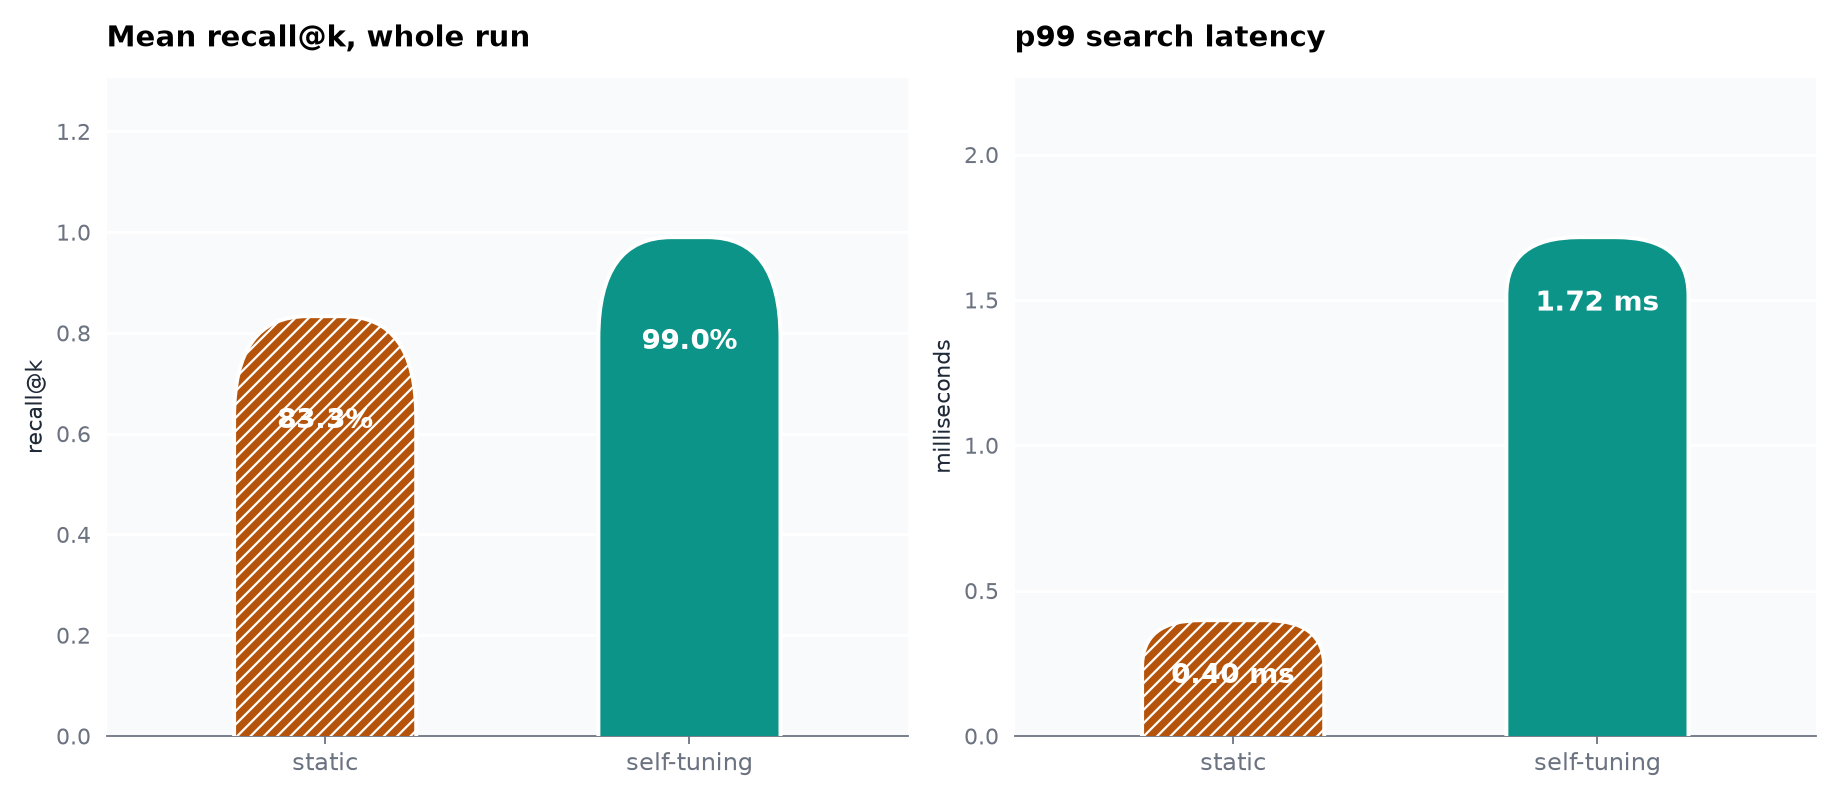
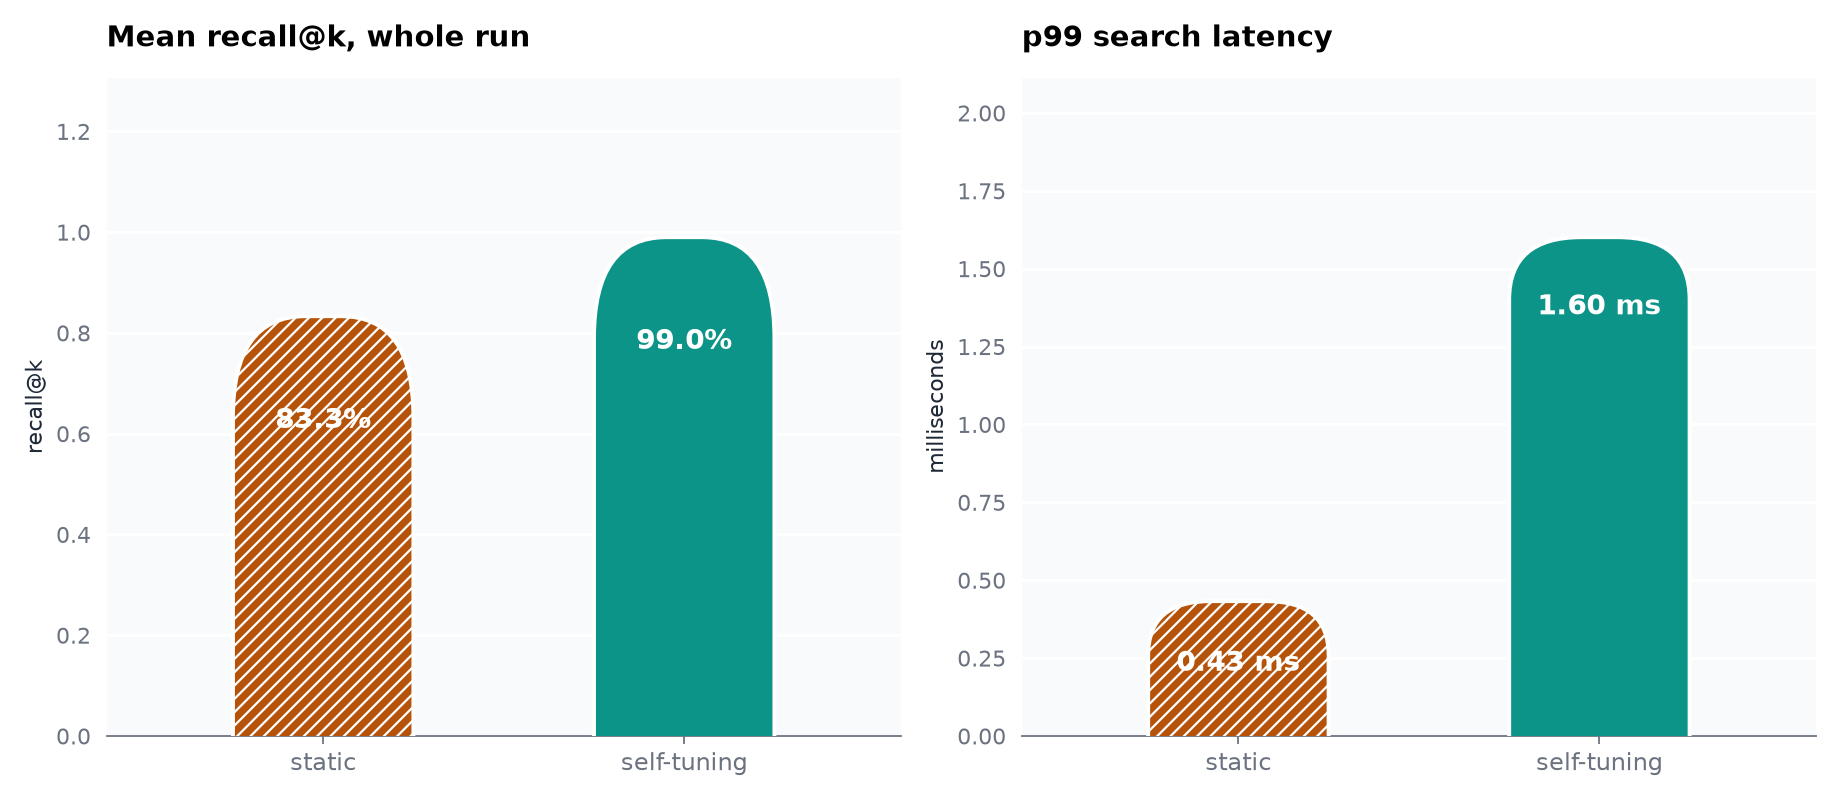
style: present the promotion and degree-widening charts as a dot plot and a node diagram

diff --git a/src/adaptann/viz.py b/src/adaptann/viz.py
@@ -10,6 +10,8 @@ silhouette from a conventional flat-topped column chart.
 
 from __future__ import annotations
 
+from pathlib import Path
+
 _STATIC = "#b45309"
 _STATIC_DARK = "#7c2d12"
 _ADAPTIVE = "#0d9488"
@@ -216,118 +218,108 @@ def plot_cold_start_recovery(
 
 
 def plot_promotion_vs_densify(static: tuple[float, float], promoted: tuple[float, float], path) -> None:
-    """The chart behind the redesign story: mean distance computations per
-    query, split into upper-layer descent vs. the layer-0 pass, for the
-    static baseline and for the abandoned upper-layer-promotion
-    mechanism, averaged over several seeds. Layer 0 barely moves between
-    the two, which is the actual diagnosis: promotion cannot help,
-    because it never touches the layer that dominates cost. ``promoted``
-    is marked with a cross-hatch and a violet fill, distinct in kind (not
-    just color) from the amber static baseline, since it is not a real
-    alternative, just a documented dead end; see the summary and
-    cold-start charts elsewhere in this README for the mechanism that
-    replaced it."""
-    import matplotlib.patches as mpatches
+    """The chart behind the redesign story, as a dot-and-stem comparison
+    rather than another bar chart: for each of the two search phases, one
+    dot for the static baseline and one for the abandoned promotion
+    mechanism, on a shared stem. Two dots landing on almost the same
+    point *is* the finding, and a bar chart tends to visually exaggerate
+    small differences through bar-height weight; a dot plot doesn't."""
     import matplotlib.pyplot as plt
-    from matplotlib.patches import FancyBboxPatch
 
-    fig, ax = plt.subplots(figsize=(9.5, 5.8))
+    fig, (ax1, ax2) = plt.subplots(2, 1, figsize=(8.5, 4.6))
     fig.patch.set_facecolor("white")
-    ax.set_facecolor(_BAND_A)
 
-    groups = ["upper layers\n(descent to ef=1)", "layer 0\n(the ef-bounded pass)"]
-    centers = [0.0, 1.3]
-    offsets = [-0.24, 0.24]
-    width = 0.4
-    series = [(_STATIC, None, "static"), (_REJECTED, "xxxx", "promoted (abandoned)")]
-    values_by_group = [[static[0], promoted[0]], [static[1], promoted[1]]]
-    max_val = max(max(v) for v in values_by_group)
+    rows = [
+        (ax1, "layer 0  (the ef-bounded pass)", static[1], promoted[1]),
+        (ax2, "upper layers  (descent to ef=1)", static[0], promoted[0]),
+    ]
 
-    # The corner radius has to be measured against ``width`` (x-data-units),
-    # not against the y-scale: this axis spans ~2 x-units but ~350 y-units,
-    # so a radius picked as a fraction of the y-range would be many times
-    # wider than the bars themselves. `min(width, val)` keeps it sane for
-    # both the short "upper layers" and tall "layer 0" bars alike, since
-    # every bar here is far taller than it is wide.
-    for group_center, values in zip(centers, values_by_group, strict=True):
-        for offset, val, (color, hatch, _label) in zip(offsets, values, series, strict=True):
-            x_center = group_center + offset
-            radius = min(width, val) * 0.4
-            patch = FancyBboxPatch(
-                (x_center - width / 2, -radius), width, val + radius,
-                boxstyle=f"round,pad=0,rounding_size={radius}",
-                linewidth=1.8, edgecolor="white", facecolor=color, hatch=hatch, zorder=3,
-                transform=ax.transData,
-            )
-            ax.add_patch(patch)
-            ax.text(
-                x_center, val + max_val * 0.02, f"{val:.0f}", ha="center", va="bottom",
-                fontsize=12, fontweight="bold", color=_TEXT, zorder=6,
-            )
+    for ax, label, static_val, promoted_val in rows:
+        ax.set_facecolor(_BAND_A)
+        lo, hi = min(static_val, promoted_val), max(static_val, promoted_val)
+        pad = max(hi * 0.35, 3)
+        ax.plot([lo, hi], [0, 0], color=_MUTED, linewidth=2, zorder=2, solid_capstyle="round")
+        ax.scatter([static_val], [0], s=260, color=_STATIC, zorder=3, edgecolor="white", linewidth=1.5)
+        ax.scatter(
+            [promoted_val], [0], s=260, color=_REJECTED, marker="X", zorder=4, edgecolor="white", linewidth=1.2
+        )
+        ax.text(
+            static_val, 0.55, f"static\n{static_val:.0f}", ha="center", va="bottom",
+            fontsize=10.5, color=_STATIC_DARK, fontweight="bold",
+        )
+        ax.text(
+            promoted_val, -0.55, f"promoted\n{promoted_val:.0f}", ha="center", va="top",
+            fontsize=10.5, color=_REJECTED_DARK, fontweight="bold",
+        )
 
-    ax.set_xticks(centers)
-    ax.set_xticklabels(groups, fontsize=11)
-    ax.set_xlim(centers[0] - 0.7, centers[-1] + 0.7)
-    ax.set_ylabel("mean distance computations")
-    ax.set_ylim(0, max_val * 1.22)
-    ax.set_title(
+        ax.set_ylim(-1.3, 1.3)
+        ax.set_xlim(lo - pad, hi + pad)
+        ax.set_yticks([])
+        ax.set_ylabel(label, fontsize=10.5, rotation=0, ha="right", va="center", labelpad=10)
+        for spine in ax.spines.values():
+            spine.set_visible(False)
+        ax.tick_params(colors=_MUTED, labelsize=9)
+
+    fig.suptitle(
         "Layer 0, the dominant cost, barely moves: promotion never touches it",
-        fontsize=13, fontweight="bold", loc="left", pad=14,
+        fontsize=13, fontweight="bold", x=0.02, ha="left", y=0.99,
     )
-    ax.grid(axis="y", color="white", linewidth=1.4, zorder=0)
-    ax.set_axisbelow(True)
-
-    handles = [mpatches.Patch(facecolor=c, hatch=h, label=label) for c, h, label in series]
-    ax.legend(handles=handles, loc="upper right", frameon=False, labelcolor=_TEXT, fontsize=10)
-    _style_axis(ax)
-
-    fig.tight_layout()
+    fig.tight_layout(rect=(0, 0, 1, 0.94))
     fig.savefig(path, dpi=160, facecolor="white")
     plt.close(fig)
 
 
-def plot_degree_widening(normal_degree: float, widened_degree: float, degree_cap: int, path) -> None:
-    """The chart behind the honest-cost section: a densified node's actual
-    layer-0 degree against a typical, never-hot node's, both measured on
-    the same warmed-up index from ``demos/benchmark.py``, with the normal
-    construction-time degree cap marked as a reference line. This is the
-    concrete shape of "later searches through it examine more
-    candidates": not a multiplier claimed in prose, a real average."""
-    import matplotlib.pyplot as plt
+def render_degree_diagram_svg(normal_degree: float, widened_degree: float, degree_cap: int, path) -> None:
+    """The figure behind the honest-cost section, as an actual node-and-edges
+    drawing rather than a bar chart: a hub with ``normal_degree`` spokes
+    next to a hub with ``widened_degree`` spokes, one spoke per real
+    layer-0 neighbor, both counts measured on the same warmed-up index
+    from ``demos/benchmark.py``. The point ("densified nodes end up far
+    more connected") is the actual density of lines on the page, not an
+    abstraction of it."""
+    import math
 
-    fig, ax = plt.subplots(figsize=(8, 5.5))
-    fig.patch.set_facecolor("white")
-    ax.set_facecolor(_BAND_A)
+    bg, text, muted = "#f8fafc", "#1f2937", "#6b7280"
+    panel_w = 340
+    hub_r, spoke_len, dot_r = 15, 105, 3.4
+    top_margin, label_block_h, bottom_margin = 40, 54, 16
+    width = panel_w * 2 + 20
+    height = top_margin + spoke_len + hub_r + spoke_len + label_block_h + bottom_margin
 
-    labels = ["typical node", "densified node"]
-    values = [normal_degree, widened_degree]
-    colors = [_STATIC, _ADAPTIVE]
-    hatches = ["////", None]
-    width = 0.5
+    def panel(cx: float, cy: float, degree: float, color: str, label: str) -> list[str]:
+        n = max(int(round(degree)), 1)
+        elems = []
+        for i in range(n):
+            angle = 2 * math.pi * i / n - math.pi / 2
+            ex = cx + spoke_len * math.cos(angle)
+            ey = cy + spoke_len * math.sin(angle)
+            elems.append(
+                f'<line x1="{cx:.1f}" y1="{cy:.1f}" x2="{ex:.1f}" y2="{ey:.1f}" '
+                f'stroke="{color}" stroke-width="1.1" opacity="0.55"/>'
+            )
+            elems.append(f'<circle cx="{ex:.1f}" cy="{ey:.1f}" r="{dot_r}" fill="{color}"/>')
+        elems.append(f'<circle cx="{cx:.1f}" cy="{cy:.1f}" r="{hub_r}" fill="{bg}" stroke="{color}" stroke-width="3"/>')
+        elems.append(
+            f'<text x="{cx:.1f}" y="{cy + spoke_len + 34:.1f}" font-size="15" font-weight="bold" '
+            f'fill="{text}" text-anchor="middle">{label}</text>'
+        )
+        elems.append(
+            f'<text x="{cx:.1f}" y="{cy + spoke_len + 54:.1f}" font-size="12.5" fill="{muted}" '
+            f'text-anchor="middle">{degree:.1f} layer-0 neighbors</text>'
+        )
+        return elems
 
-    for i, (val, color, hatch) in enumerate(zip(values, colors, hatches, strict=True)):
-        _pill_bar(ax, i, val, width, color, f"{val:.1f}", hatch=hatch)
+    svg = [
+        f'<svg xmlns="http://www.w3.org/2000/svg" width="{width}" height="{height}" '
+        f'viewBox="0 0 {width} {height}" font-family="Consolas, Menlo, monospace">',
+        f'<rect width="{width}" height="{height}" fill="{bg}"/>',
+        f'<text x="20" y="26" font-size="14" fill="{text}">Densified nodes end up far more '
+        'connected than typical ones</text>',
+    ]
+    cy = top_margin + spoke_len
+    svg += panel(panel_w / 2, cy, normal_degree, _STATIC, f"typical node (cap {degree_cap})")
+    svg += panel(panel_w * 1.5 + 20, cy, widened_degree, _ADAPTIVE, "densified node")
+    svg.append("</svg>")
 
-    ax.axhline(degree_cap, color=_MUTED, linewidth=1.5, linestyle="--", zorder=4)
-    ax.text(
-        1.62, degree_cap, f" cap: {degree_cap} ", color=_MUTED, fontsize=9.5,
-        va="center", ha="left", bbox={"boxstyle": "round,pad=0.2", "facecolor": "white", "edgecolor": "none"},
-        zorder=5,
-    )
-
-    ax.set_xticks(range(len(labels)))
-    ax.set_xticklabels(labels, fontsize=11)
-    ax.set_xlim(-0.6, 2.0)
-    ax.set_ylabel("layer-0 neighbor count")
-    ax.set_ylim(0, max(values) * 1.3)
-    ax.set_title(
-        "Densified nodes end up far more connected than typical ones",
-        fontsize=13, fontweight="bold", loc="left", pad=14,
-    )
-    ax.grid(axis="y", color="white", linewidth=1.4, zorder=0)
-    ax.set_axisbelow(True)
-    _style_axis(ax)
-
-    fig.tight_layout()
-    fig.savefig(path, dpi=160, facecolor="white")
-    plt.close(fig)
+    Path(path).parent.mkdir(parents=True, exist_ok=True)
+    Path(path).write_text("\n".join(svg), encoding="utf-8")

diff --git a/src/adaptann/demos/benchmark.py b/src/adaptann/demos/benchmark.py
@@ -24,7 +24,7 @@ import numpy as np
 from ..bruteforce import brute_force_knn
 from ..hnsw import HNSW
 from ..metrics import recall_at_k
-from ..viz import plot_cold_start_recovery, plot_degree_widening, plot_recall_over_time, plot_summary_bars
+from ..viz import plot_cold_start_recovery, plot_recall_over_time, plot_summary_bars, render_degree_diagram_svg
 
 ROOT = Path(__file__).resolve().parent.parent.parent.parent
 ASSETS_DIR = ROOT / "assets"
@@ -176,7 +176,7 @@ def main() -> None:
             first["static"], first["adaptive"], second["static"], second["adaptive"],
             worst_topic, ASSETS_DIR / "cold_start_recovery.png",
         )
-    plot_degree_widening(normal_degree, widened_degree, adaptive.M_max0, ASSETS_DIR / "degree_widening.png")
+    render_degree_diagram_svg(normal_degree, widened_degree, adaptive.M_max0, ASSETS_DIR / "degree_widening.svg")
     print(f"wrote charts to {ASSETS_DIR}")
 
 

diff --git a/README.md b/README.md
@@ -45,7 +45,7 @@ The redesign that followed from that diagnosis: stop touching the hierarchy, and
 
 Densifying a node's neighborhood means later searches that pass through it examine more candidates, not fewer.
 
-![A densified node's real layer-0 neighbor count next to a typical node's, with the construction-time degree cap marked](assets/degree_widening.png)
+![A typical node's real layer-0 neighbors, drawn one spoke per neighbor, next to a densified node's](assets/degree_widening.svg)
 
 A never-hot node in this run averages 6.0 layer-0 neighbors, under the construction-time cap of 10; a densified node averages 46.7, nearly 5x over that cap, measured directly by `demos/benchmark.py`, not implied by the mechanism's description. p99 search latency in the summary chart above goes from 0.83ms (static) to roughly 3ms (self-tuning) on this toy dataset as a direct consequence: a wider beam at a fixed `ef` costs more, in exchange for reaching neighbors a narrower beam would have missed. The mechanism is a trade of local search cost for recall in regions that traffic actually cares about, and the right way to read the charts together is that self-tuning spends a little more time per query in exchange for a lot more correct answers where it counts, not that one index is unconditionally better than the other.
 
